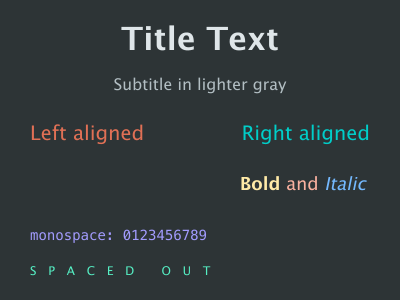
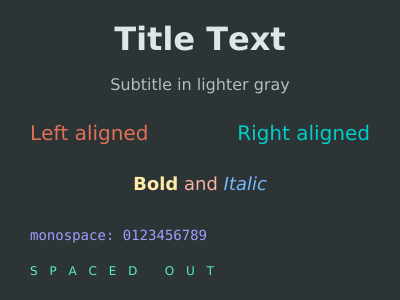
Fix text-anchor center alignment for text elements with tspan children

diff --git a/src/main/java/com/jairosvg/TextDrawer.java b/src/main/java/com/jairosvg/TextDrawer.java
@@ -54,6 +54,10 @@ public final class TextDrawer {
         FontRenderContext frc = surface.context.getFontRenderContext();
 
         String textContent = node.text;
+        // Whitespace-only text between child elements (e.g. tspan) should be ignored
+        if (textContent != null && textContent.isBlank() && !node.children.isEmpty()) {
+            textContent = null;
+        }
         if (textContent == null || textContent.isEmpty()) {
             // Set initial cursor position from this node's x/y
             String parentX = node.get("x");
@@ -77,9 +81,6 @@ public final class TextDrawer {
                 }
             }
 
-            for (Node child : node.children) {
-                text(surface, child, drawAsText);
-            }
             return;
         }
 
